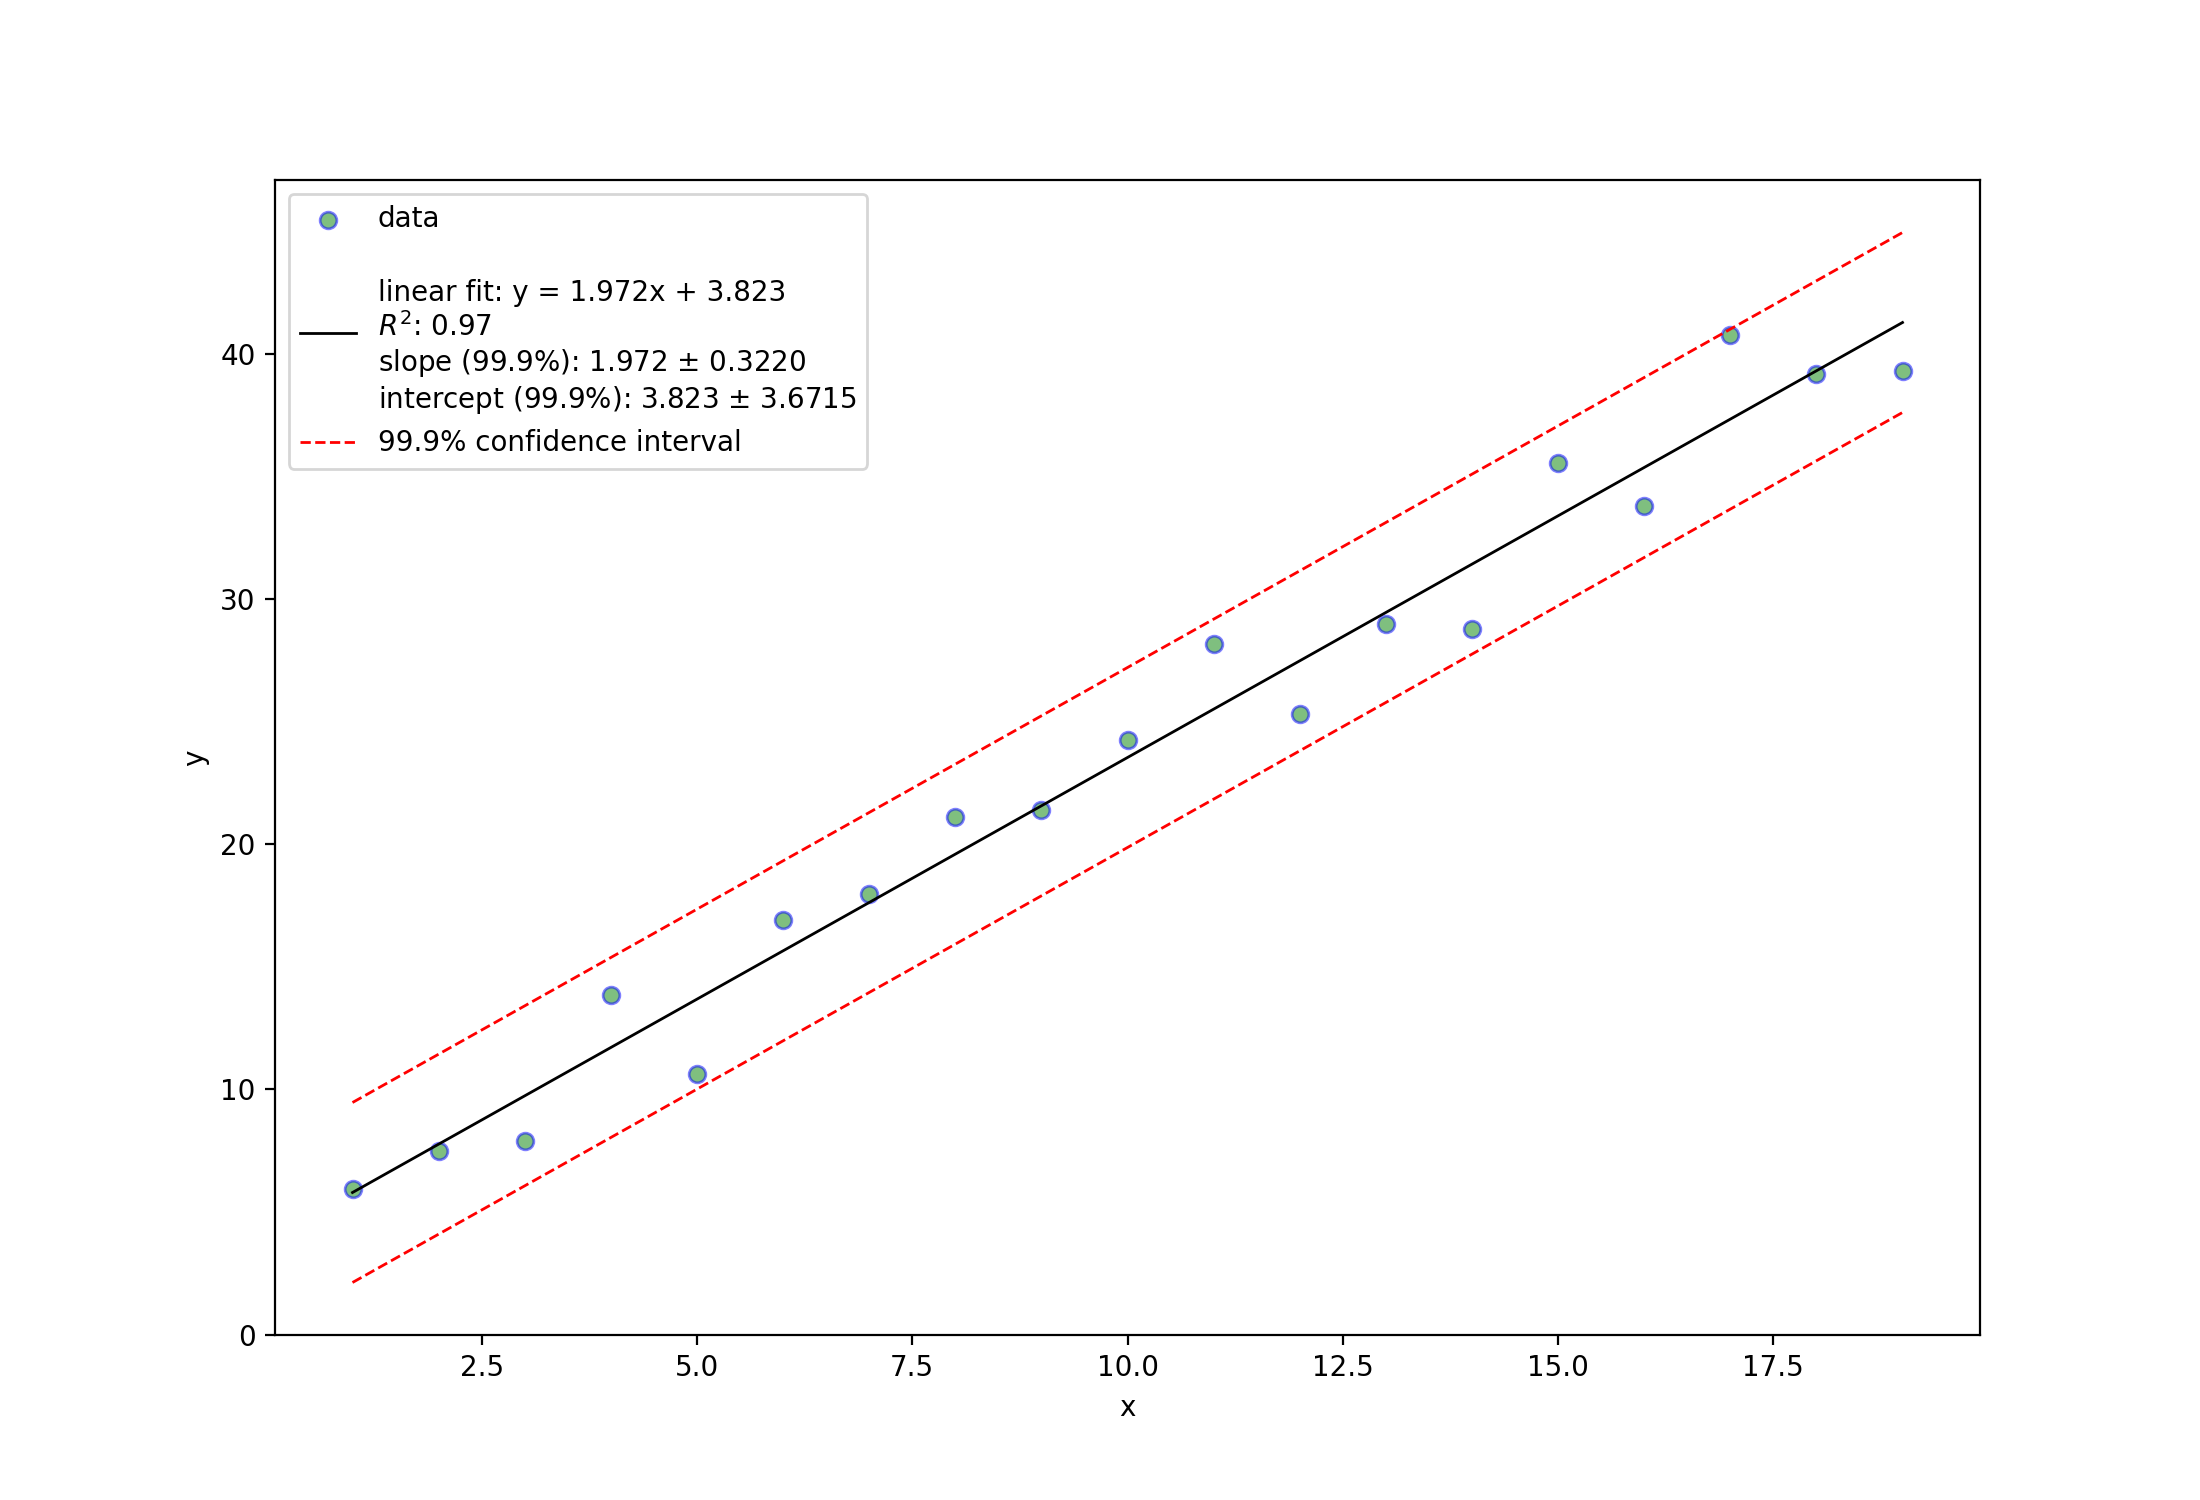
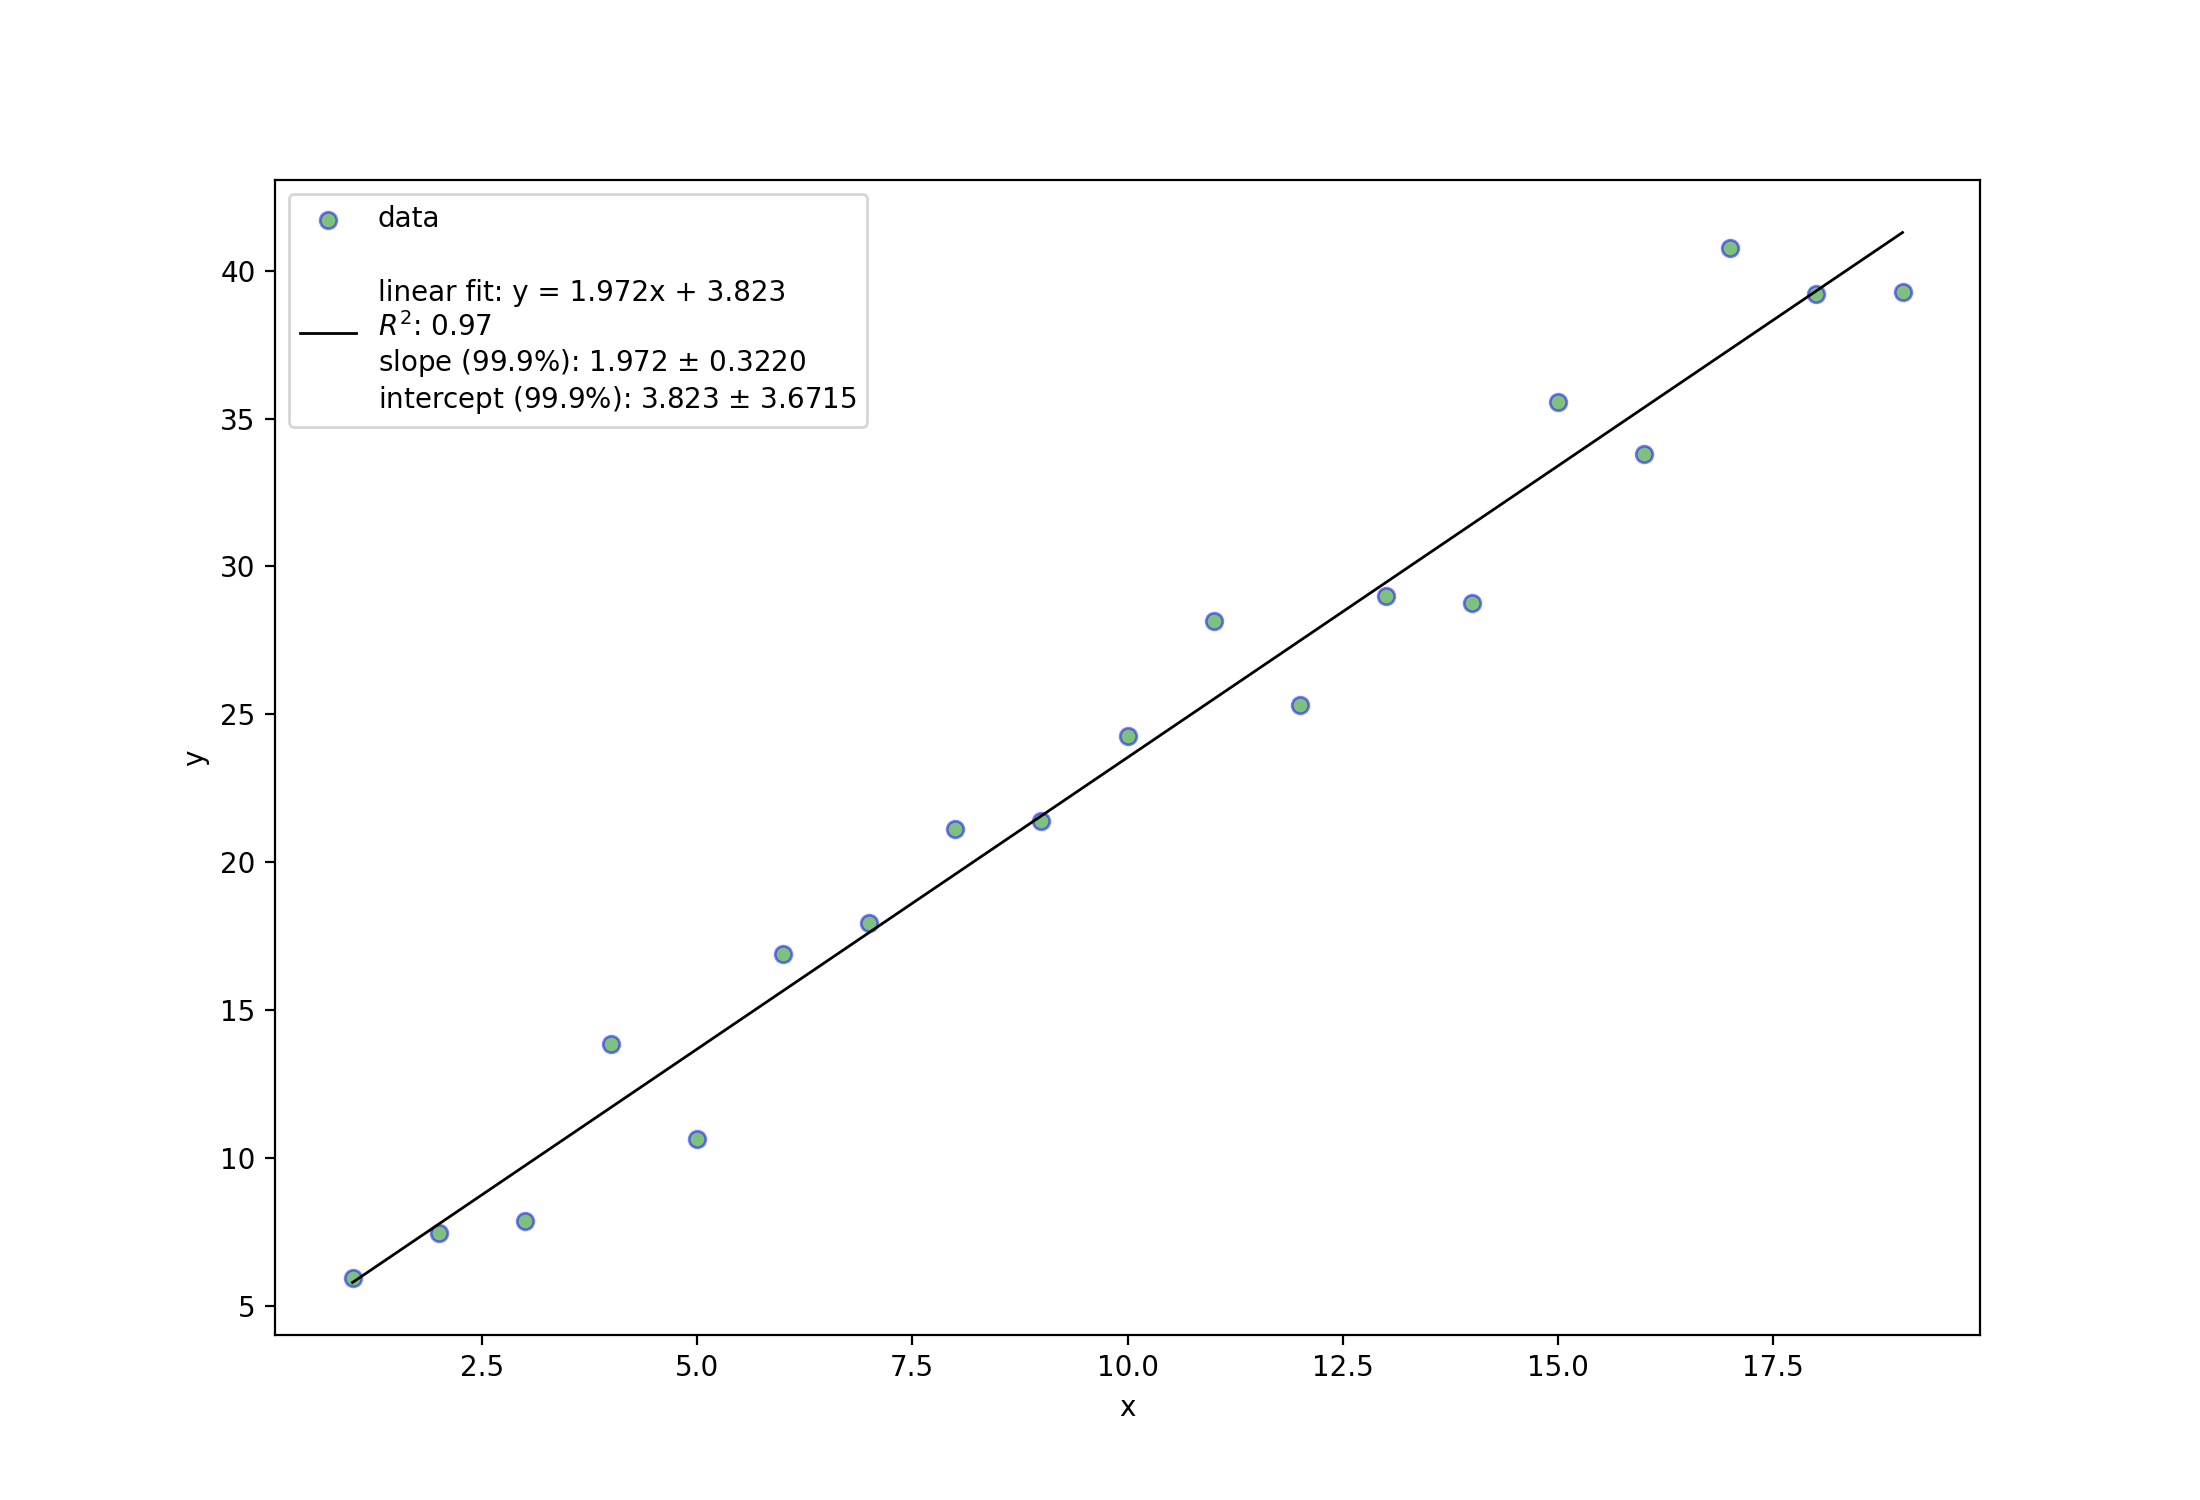
Remove "confidence interval"
Resolves #3 and Resolves #4

diff --git a/statistics/linear.py b/statistics/linear.py
@@ -89,8 +89,8 @@ class fit_linear:
 
         ax_handl.scatter(self.x, self.y, marker='o', facecolor='g', edgecolor='b', alpha=0.5, label="data")
         ax_handl.plot(xx, yy, 'k-', linewidth=1, label="\nlinear fit: "+stats_label)
-        ax_handl.plot(xx, yy_upper, 'r--', linewidth=1, label=f'{self.confidence:.1f}% confidence interval')
-        ax_handl.plot(xx, yy_lower, 'r--', linewidth=1)
+        # ax_handl.plot(xx, yy_upper, 'r--', linewidth=1, label=f'{self.confidence:.1f}% confidence interval')
+        # ax_handl.plot(xx, yy_lower, 'r--', linewidth=1)
         ax_handl.set_xlabel('x')
         ax_handl.set_ylabel('y')
         ax_handl.legend()
